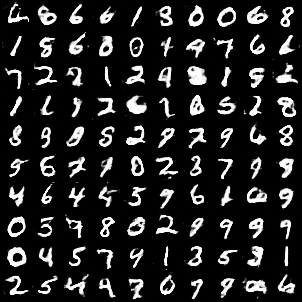
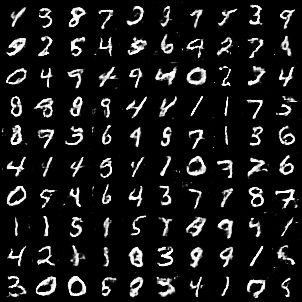
feat(fix): fix

diff --git a/models/DCGAN.py b/models/DCGAN.py
@@ -91,8 +91,6 @@ class DCGAN(GANBase):
                 nn.Tanh()
             )
 
-        # # 这个效果不错，先保存一下
-        # 效果更好
         if disc_type == 1:
             self.discriminator = nn.Sequential(
                 _conv(1, 16, 3, 2, 1, False, "lrelu", 0.25),    # --> 14x14

diff --git a/readme.md b/readme.md
@@ -31,6 +31,7 @@
 * 没有在判别器中加入BN，加入BN后会导致非常差的效果。
 * 在判别器中加入了dropout(0.25)。
 * 原文中的生成器结构共4层，用于生成64x64x3的图像，我这里将其减为3层，并降低了卷积核的数量，来生成28x28x1的MNIST图像。
+* 生成器的最后一层是一个conv + tanh，会稍微提高一下生成图像的质量。
 * 为了提高速度，使用了比原文大得多的batch size(2560)。
 
 对比了判别器的3种实现方式：
@@ -50,4 +51,4 @@
 
 > 第二种速度会稍微快一些，但因为转置卷积的计算方式，其容易产生栅格状的细微噪声(当然，这种噪声在MNIST数据集上是看不到的)。第一种能够克服这种缺点，但相对慢一点点。
 
-![DCGAN](./imgs/VanillaGAN.png)
+![DCGAN](./imgs/DCGAN.png)
